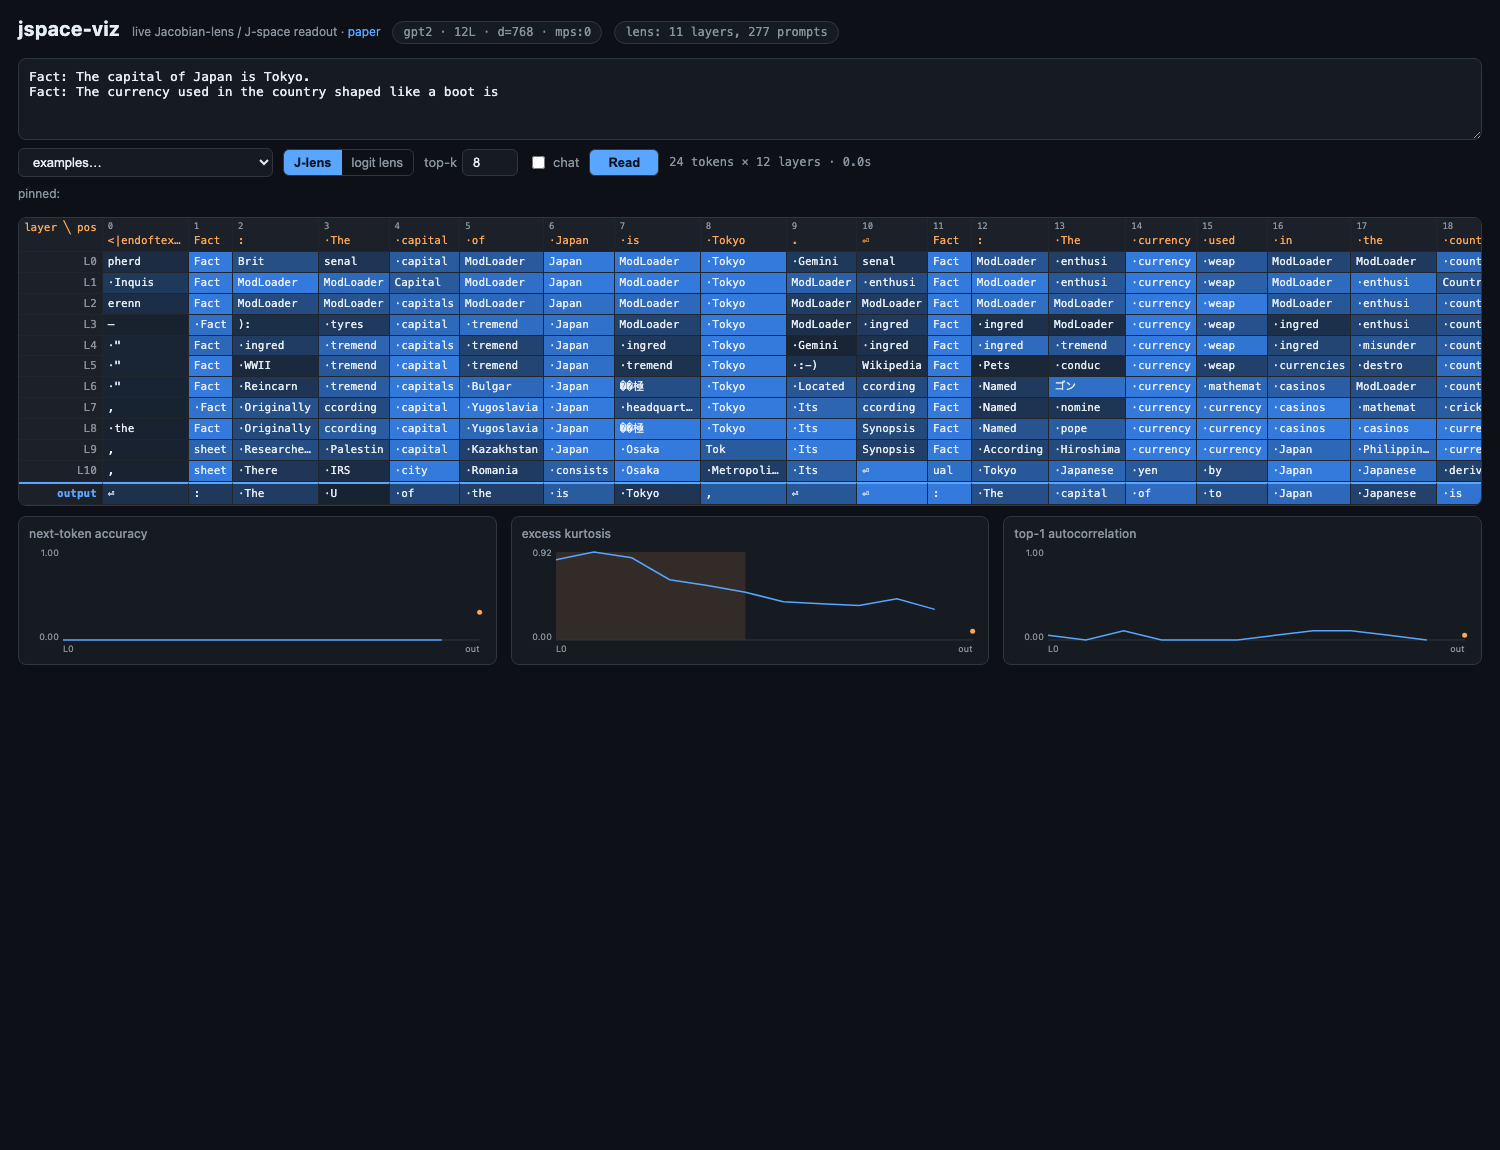
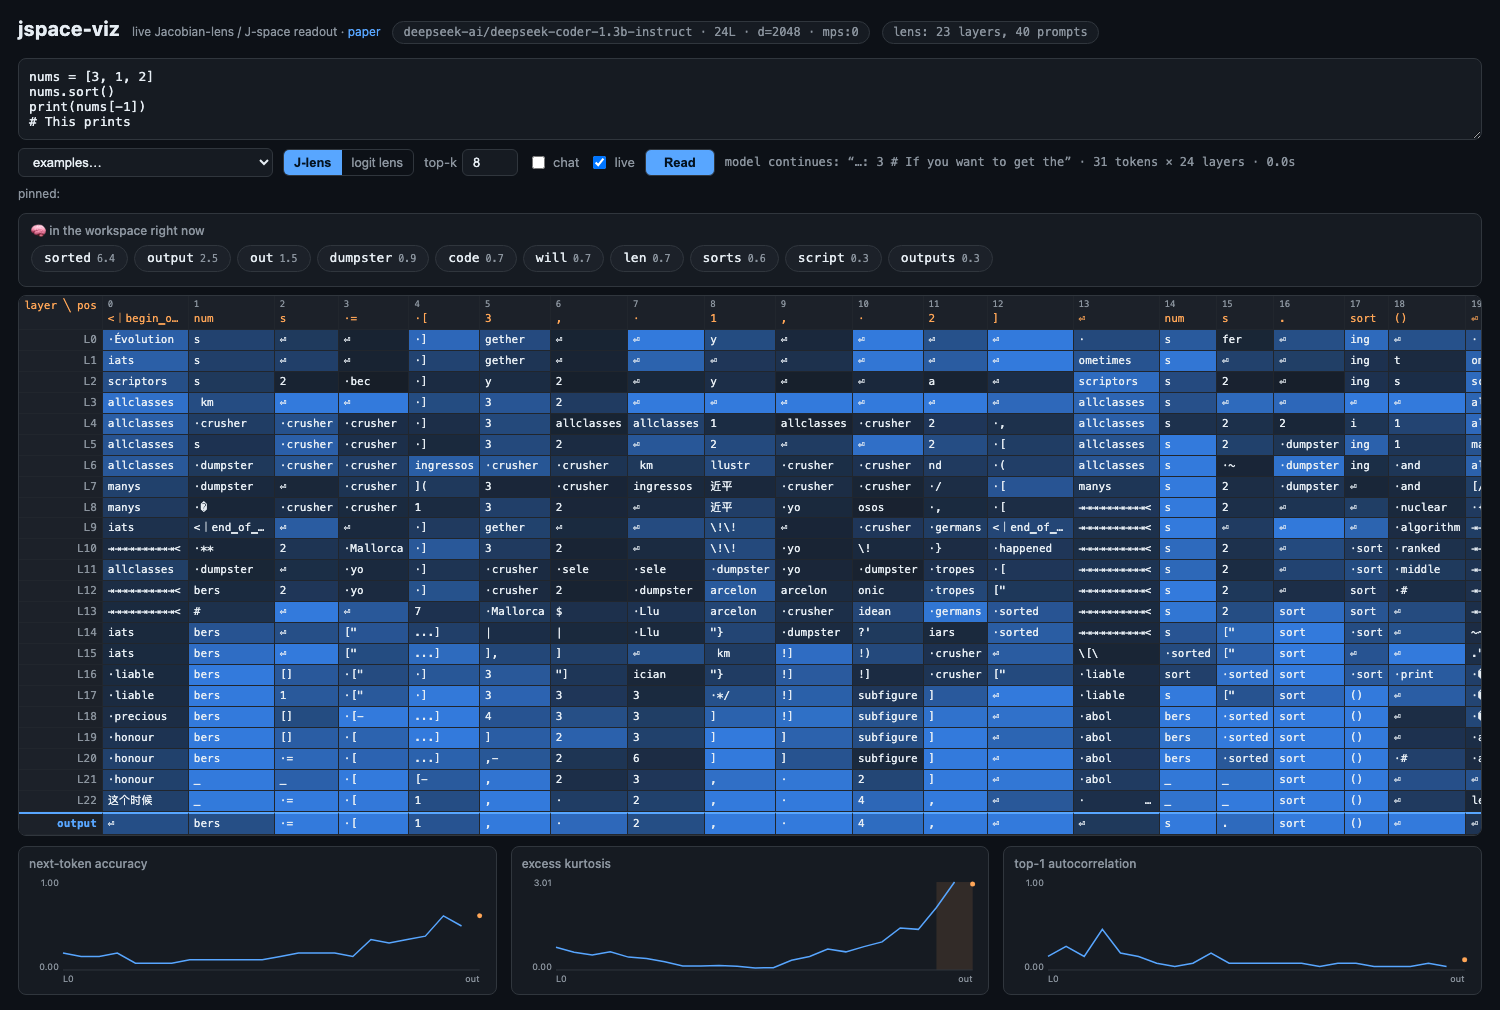
README: 'thirty seconds of use' walkthrough on a fresh prompt + tight screenshot
New demo prompt (list-sort trace): model continues ': 3' after mentally
sorting; workspace top chip 'sorted' while reading unsorted code. Also adds
shareable ?prompt= URLs (server mode) used to capture the screenshot.

diff --git a/docs/gpt2/static/app.js b/docs/gpt2/static/app.js
@@ -71,7 +71,14 @@ async function init() {
     opt.textContent = ex.name;
     $("examples").appendChild(opt);
   });
-  renderWelcome();
+  // Shareable links: /?prompt=... pre-fills and reads immediately.
+  const shared = new URLSearchParams(location.search).get("prompt");
+  if (shared && !STATIC) {
+    $("prompt").value = shared;
+    read();
+  } else {
+    renderWelcome();
+  }
 }
 
 // Blank-slate hint shown before the first read: what this is, plus the

diff --git a/docs/static/app.js b/docs/static/app.js
@@ -71,7 +71,14 @@ async function init() {
     opt.textContent = ex.name;
     $("examples").appendChild(opt);
   });
-  renderWelcome();
+  // Shareable links: /?prompt=... pre-fills and reads immediately.
+  const shared = new URLSearchParams(location.search).get("prompt");
+  if (shared && !STATIC) {
+    $("prompt").value = shared;
+    read();
+  } else {
+    renderWelcome();
+  }
 }
 
 // Blank-slate hint shown before the first read: what this is, plus the

diff --git a/jspace_viz/static/app.js b/jspace_viz/static/app.js
@@ -71,7 +71,14 @@ async function init() {
     opt.textContent = ex.name;
     $("examples").appendChild(opt);
   });
-  renderWelcome();
+  // Shareable links: /?prompt=... pre-fills and reads immediately.
+  const shared = new URLSearchParams(location.search).get("prompt");
+  if (shared && !STATIC) {
+    $("prompt").value = shared;
+    read();
+  } else {
+    renderWelcome();
+  }
 }
 
 // Blank-slate hint shown before the first read: what this is, plus the

diff --git a/README.md b/README.md
@@ -16,7 +16,37 @@ Models*](https://transformer-circuits.pub/2026/workspace/index.html)
 with one-click comparison against the vanilla logit lens and live plots of the
 paper's workspace-band signatures.
 
-![screenshot](assets/screenshot.png)
+![jspace-viz reading deepseek-coder while it mentally sorts a list](assets/screenshot.png)
+
+## Thirty seconds of use
+
+Paste a fresh question — say, code whose answer requires *doing* something:
+
+```python
+nums = [3, 1, 2]
+nums.sort()
+print(nums[-1])
+# This prints
+```
+
+What comes back (deepseek-coder-1.3b, screenshot above):
+
+- **status line** — `model continues: "…: 3"`. Correct: the model sorted
+  `[3, 1, 2]` in its head and indexed the result.
+- **🧠 in the workspace right now** — top chip `sorted`, ahead of `output`,
+  `len`, `sorts`: while reading *unsorted* code, the model is holding the
+  concept of sortedness — the intermediate state its answer depends on,
+  visible before anything is said.
+- **the grid** — scroll to the `sort` column and read downward: early layers
+  see syntax, mid layers ignite the sorting/output concepts (watch the
+  `excess kurtosis` chart hump — that's the workspace band), late layers
+  converge on phrasing. Click any cell to trace that token's rank everywhere.
+- **logit lens toggle** — same activations, no Jacobian transport: the
+  mid-layer story disappears. That difference is the paper's contribution.
+
+Then flip on **live** and edit the code — change `sort()` to `reverse()` and
+watch the workspace swap `sorted` out. Every read is computed fresh; nothing
+is canned.
 
 ## What the Jacobian lens is
 